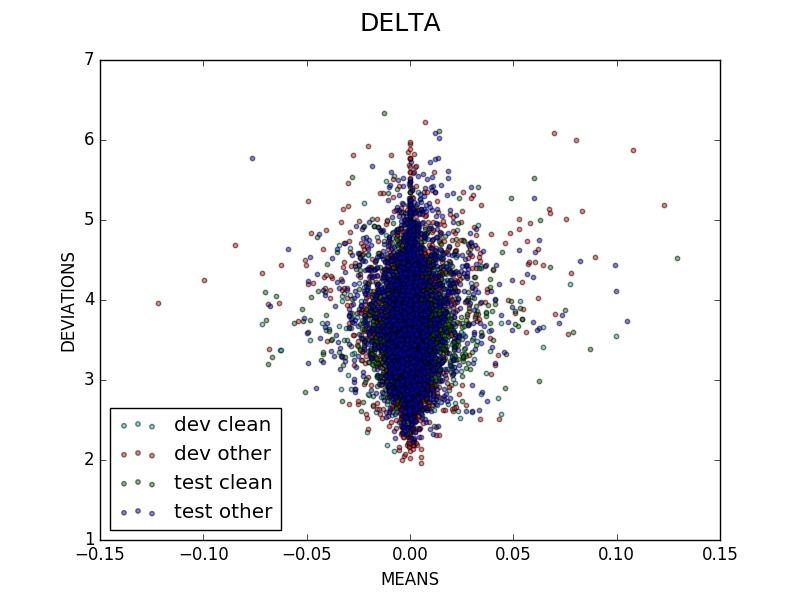
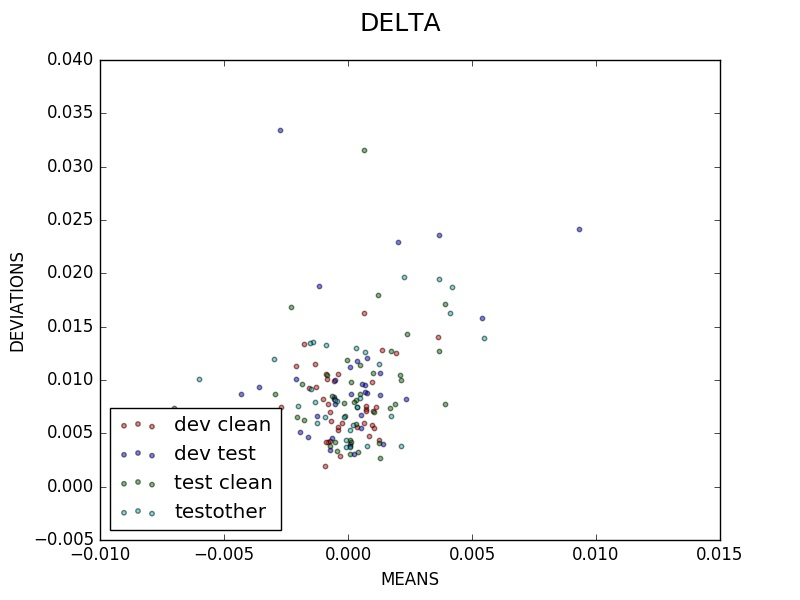
dataset visualization

diff --git a/tests/statistics.py b/tests/statistics.py
@@ -1,0 +1,61 @@
+import os
+import numpy as np, matplotlib.pyplot as plt
+
+def statisticsls(pathname, mfcc):
+	means, maxlength = dict(), 0
+	for dirpath, dirnames, filenames in os.walk(pathname):
+		for filename in filenames:
+			if filename.endswith('_%i.mfcc' %mfcc):
+				speaker = filename.split('-')[0]
+				array = np.split(np.transpose(np.loadtxt(os.path.join(dirpath, filename))), 2, 1)
+				if speaker not in means: means[speaker] = [[], []]
+				means[speaker][0].append(np.mean(array[0]))
+				means[speaker][1].append(np.mean(array[1]))
+				maxlength = max(maxlength, array[0].shape[0])
+	return [np.mean(means[speaker][0]) for speaker in means], [np.std(means[speaker][0]) for speaker in means], [np.mean(means[speaker][1]) for speaker in means], [np.std(means[speaker][1]) for speaker in means], maxlength
+
+def statisticssitw(pathname, filename, mfcc):
+	means, maxlength = dict(), 0
+	for line in open(os.path.join(pathname, filename)):
+		name, speaker, gender, mic, sess, start, stop, num = line.strip().split()[: 8]
+		if num != '1': continue
+		if speaker not in means: means[speaker] = [[], []]
+		array = np.split(np.transpose(np.loadtxt(os.path.join(pathname, '%s_%i.mfcc' %(name[:-5], mfcc)))), 2, 1)
+		means[speaker][0].append(np.mean(array[0]))
+		means[speaker][1].append(np.mean(array[1]))
+		maxlength = max(maxlength, array[0].shape[0])
+	return [np.mean(means[speaker][0]) for speaker in means], [np.std(means[speaker][0]) for speaker in means], [np.mean(means[speaker][1]) for speaker in means], [np.std(means[speaker][1]) for speaker in means], maxlength
+
+def subplot(title, tag, listofXYlabel):
+	fig = plt.figure()
+	fig.suptitle(title.upper(), fontsize = 18)
+	colours = ['r', 'b', 'g', 'c']
+	for i, [X, Y, label] in enumerate(listofXYlabel):
+		plt.scatter(X, Y, 10, colours[i], alpha = 0.5, label = label)
+  	plt.xlabel('MEANS')
+	plt.ylabel('DEVIATIONS')
+	plt.legend(loc = 'lower left')
+	plt.show()
+	fig.savefig('report/images/%s[%s].jpg' %(title.lower(), tag))
+
+def plotls(devc, devo, testc, testo):
+	devcX1, devcY1, devcX2, devcY2, devcmaxlength = devc
+	devoX1, devoY1, devoX2, devoY2, devomaxlength = devo
+	testcX1, testcY1, testcX2, testcY2, testcmaxlength = testc
+	testoX1, testoY1, testoX2, testoY2, testomaxlength = testo
+	print devcmaxlength, devomaxlength, testcmaxlength, testomaxlength
+	for X in [devcX1, devcX2, devoX1, devoX2, testcX1, testcX2, testoX1, testoX2]: print np.mean(X), np.std(X), np.max(X), np.min(X)
+	subplot('MFCC', 'ls', [[devcX1, devcY1, 'dev clean'], [devoX1, devoY1, 'dev test'], [testcX1, testcY1, 'test clean'], [testoX1, testoY1, 'testother']])
+	subplot('DELTA', 'ls', [[devcX2, devcY2, 'dev clean'], [devoX2, devoY2, 'dev test'], [testcX2, testcY2, 'test clean'], [testoX2, testoY2, 'testother']])
+
+def plotsitw(dev, eva):
+	devX1, devY1, devX2, devY2, devmaxlength = dev
+	evaX1, evaY1, evaX2, evaY2, evamaxlength = eva
+	print devmaxlength, evamaxlength
+	for X in [devX1, devX2, evaX1, evaX2]: print np.mean(X), np.std(X), np.max(X), np.min(X)
+	subplot('MFCC', 'sitw', [[devX1, devY1, 'dev'], [evaX1, evaY1, 'eval']])
+	subplot('DELTA', 'sitw', [[devX2, devY2, 'dev'], [evaX2, evaY2, 'eval']])
+
+if __name__ == '__main__':
+	plotls(statisticsls('data/LibreSpeech/dev-clean', 50), statisticsls('data/LibreSpeech/dev-other', 50), statisticsls('data/LibreSpeech/test-clean', 50), statisticsls('data/LibreSpeech/test-other', 50))
+	plotsitw(statisticssitw('data/SpeakersInTheWild/dev/', 'keys/meta.lst', 50), statisticssitw('data/SpeakersInTheWild/eval/', 'keys/meta.lst', 50))

diff --git a/report/16.09.12.md b/report/16.09.12.md
@@ -27,68 +27,48 @@
 * Total Number of Samples: 2703
 * Maximum Length along Time Axis: 1029
 
-| MFCC | Mean | Deviation | Maximum | Minimum |
+| | Mean | Deviation | Maximum | Minimum |
 |:-:|:-:|:-:|:-:|:-:|
-| Means | -5.59646280919 | 1.87119809036 | -1.12273724691 | -10.7117896467 |
-| Deviations | 56.9909897662 | 6.23129999458 | 85.4468957371 | 34.3927742266 |
+| MFCC | -5.50906989828 | 1.67165303697 | -2.12469975583 | -8.86310434637 |
+| DELTA | -9.6719576219e-05 | 0.00119681878772 | 0.00361292595683 | -0.00271856227165 |
 
-| DELTA | Mean | Deviation | Maximum | Minimum |
-|:-:|:-:|:-:|:-:|:-:|
-| Means | -0.000094770301296 | 0.00878059599242 | 0.0996746357603 | -0.0717477841146 |
-| Deviations | 3.58465067508 | 0.434088518383 | 5.55474225786 | 2.11212612328 |
-
-Datapoints were derived one per sample.
+Datapoints were derived one per speaker per sample.
 
 #### Dev Other
 
 * Total Number of Samples: 2864
 * Maximum Length along Time Axis: 1108
 
-| MFCC | Mean | Deviation | Maximum | Minimum |
+| | Mean | Deviation | Maximum | Minimum |
 |:-:|:-:|:-:|:-:|:-:|
-| Means | -5.84353519907 | 2.32896520996 | -0.640857478357 | -12.2648412635 |
-| Deviations | 58.4387492803 | 5.9360177587 | 85.77679166 | 39.0068038801 |
+| MFCC | -5.80414144886 | 2.02013711785 | -2.81372274035 | -9.97661684884 |
+| DELTA |0.000313083615503 | 0.00245069128579 | 0.00929797544083 | -0.00430383842016 |
 
-| DELTA | Mean | Deviation | Maximum | Minimum |
-|:-:|:-:|:-:|:-:|:-:|
-| Means | 0.000165102204399 | 0.0123944002375 | 0.123055291782 | -0.122013883791 |
-| Deviations | 3.71857111427 | 0.651598798934 | 6.22862513129 | 1.96077803511 |
-
-Datapoints were derived one per sample.
+Datapoints were derived one per speaker per sample.
 
 #### Test Clean
 
 * Total Number of Samples: 2620
 * Maximum Length along Time Axis: 1102
 
-| MFCC | Mean | Deviation | Maximum | Minimum |
+| | Mean | Deviation | Maximum | Minimum |
 |:-:|:-:|:-:|:-:|:-:|
-| Means | -5.20642746115 | 2.15373233465 | 1.2779943081 | -13.4210021425 |
-| Deviations | 55.6090898706 | 5.24699910272 | 84.1162179406 | 44.0717945404 |
+| MFCC | -5.31175425343 | 2.17003262699 | -1.13538039067 | -11.685041445 |
+| DELTA | 0.000193841448925 | 0.00200898896513 | 0.00392949123812 | -0.00700810652843 |
 
-| DELTA | Mean | Deviation | Maximum | Minimum |
-|:-:|:-:|:-:|:-:|:-:|
-| Means | 0.000361974731041 | 0.0111435307204 | 0.129351187632 | -0.0701823441454 |
-| Deviations | 3.62528453798 | 0.482846120542 | 6.3370786396 | 2.33271889483 |
-
-Datapoints were derived one per sample.
+Datapoints were derived one per speaker per sample.
 
 #### Test Other
 
 * Total Number of Samples: 2939
 * Maximum Length along Time Axis: 1088
 
-| MFCC | Mean | Deviation | Maximum | Minimum |
+| | Mean | Deviation | Maximum | Minimum |
 |:-:|:-:|:-:|:-:|:-:|
-| Means | -6.01635947472 | 2.5726264763 | -0.160368785215 | -11.9209259134 |
-| Deviations | 59.2262157149 | 6.49520321617 | 84.8273765655 | 42.7847442702 |
+| MFCC | -5.9892141458 | 2.35737169603 | -0.766550495091 | -10.5714905135 |
+| DELTA | 0.00011431422759 | 0.00223703720655 | 0.00547874631181 | -0.00601587172713 |
 
-| DELTA | Mean | Deviation | Maximum | Minimum |
-|:-:|:-:|:-:|:-:|:-:|
-| Means | 0.000169735778234 | 0.0113731573015 | 0.104758235569 | -0.0762119231565 |
-| Deviations | 3.72564837977 | 0.645254374578 | 6.08981676277 | 2.2274428392 |
-
-Datapoints were derived one per sample.
+Datapoints were derived one per speaker per sample.
 
 #### Scatter Plots
 
